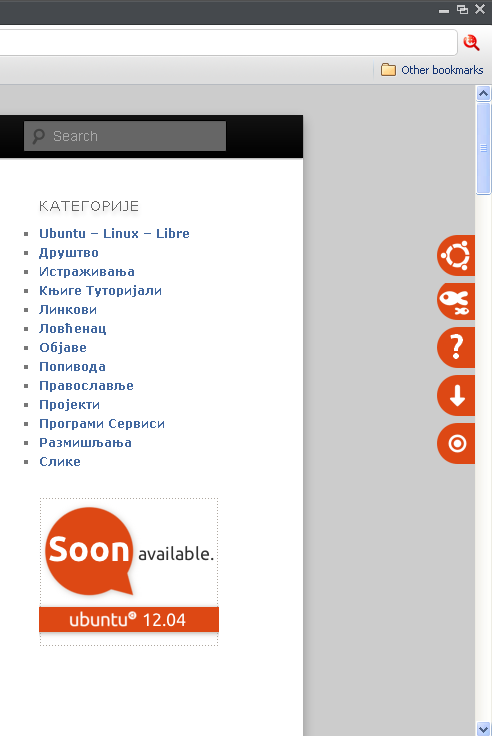
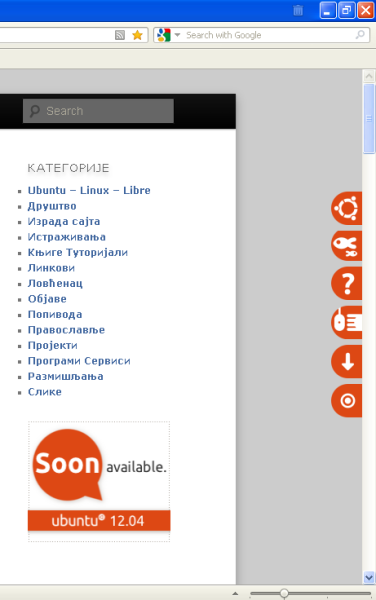
Commit version 0.4
git-svn-id: https://plugins.svn.wordpress.org/ubuntu-sidebar/trunk@538907 b8457f37-d9ea-0310-8a92-e5e31aec5664

diff --git a/js/ubuntu-sidebar.js b/js/ubuntu-sidebar.js
@@ -1,7 +1,7 @@
 /**
  * @author Zeljko Popivoda.
  *
- * Version 0.3
+ * Version 0.4
  * Copyright (c) 2012	 Zeljko Popivoda
  *
  * License:
@@ -18,23 +18,27 @@
       IMAGE_BASE = '/wp-content/plugins/ubuntu-sidebar/images/';
       var settings = {
 		'top'        : '100px',
-        'ubuntu-com'         : {
+        'ubuntu-com': {
 			'link': '',
 			'image': IMAGE_BASE + 'ubuntu-com.png'
 		},
-        'ubuntu-loco'         : {
+        'ubuntu-loco': {
 			'link': '',
 			'image': IMAGE_BASE + 'ubuntu-loco.png'
 		},
-        'why-ubuntu'         : {
+        'why-ubuntu': {
 			'link': '',
 			'image': IMAGE_BASE + 'why-ubuntu.png'
 		},
-		'download-ubuntu'         : {
+		'ubuntu-tour': {
+			'link': '',
+			'image': IMAGE_BASE + 'ubuntu-tour.png'
+		},
+		'download-ubuntu': {
 			'link': '',
 			'image': IMAGE_BASE + 'download-ubuntu.png'
 		},
-		'ubuntu-dvd'         : {
+		'ubuntu-dvd': {
 			'link': '',
 			'image': IMAGE_BASE + 'ubuntu-dvd.png'
 		},
@@ -56,6 +60,9 @@
 		if( settings['why-ubuntu']['link'] != ""){
 			sidebar.append("<div class='socialNetwork'><a target='_blank' title='Why use Ubuntu' href='" + settings['why-ubuntu']['link'] + "'><img style='z-index: 10000;' src='" + settings['why-ubuntu']['image'] + "' /></a></div>");
 		}		
+		if( settings['ubuntu-tour']['link'] != ""){
+			sidebar.append("<div class='socialNetwork'><a target='_blank' title='Ubuntu online tour' href='" + settings['ubuntu-tour']['link'] + "'><img style='z-index: 10000;' src='" + settings['ubuntu-tour']['image'] + "' /></a></div>");
+		}	
 		if( settings['download-ubuntu']['link'] != ""){
 			sidebar.append("<div class='socialNetwork'><a target='_blank' title='Download Ubuntu' href='" + settings['download-ubuntu']['link'] + "'><img style='z-index: 10000;' src='" + settings['download-ubuntu']['image'] + "' /></a></div>");
 		}		

diff --git a/ubuntu-sidebar.php b/ubuntu-sidebar.php
@@ -1,7 +1,7 @@
 <?php
 /**
  * @package ubuntu-sidebar
- * @version 0.3
+ * @version 0.4
  */
 /*
 Plugin Name: Ubuntu Sidebar
@@ -75,6 +75,12 @@ echo "
 					echo "'image': '". get_option("why-ubuntu_image"). "',";
 				}
                echo "'link': '". get_option("why-ubuntu_link"). "'
+            },
+			'ubuntu-tour': {";
+				if(  get_option("ubuntu-tour_image") ){
+					echo "'image': '". get_option("ubuntu-tour_image"). "',";
+				}
+               echo "'link': '". get_option("ubuntu-tour_link"). "'
             },
 			'download-ubuntu': {";
 				if(  get_option("download-ubuntu_image") ){
@@ -171,6 +177,14 @@ echo '<tr valign="top">
 <td><input style="width: 400px;" type="text" name="why-ubuntu_image" value="' . get_option('why-ubuntu_image') .'" /></td>
 </tr>'; 
 echo '<tr valign="top">
+<th scope="row">Ubuntu online tour <strong>Link</strong>:</th>
+<td><input style="width: 400px;" type="text" name="ubuntu-tour_link" value="' . get_option('ubuntu-tour_link') .'" /></td>
+</tr>'; 
+echo '<tr valign="top">
+<th scope="row">Ubuntu online tour Image (optional):</th>
+<td><input style="width: 400px;" type="text" name="ubuntu-tour_image" value="' . get_option('ubuntu-tour_image') .'" /></td>
+</tr>'; 
+echo '<tr valign="top">
 <th scope="row">Download Ubuntu <strong>Link</strong>:</th>
 <td><input style="width: 400px;" type="text" name="download-ubuntu_link" value="' . get_option('download-ubuntu_link') .'" /></td>
 </tr>'; 
@@ -204,7 +218,7 @@ echo '</table>';
   <?php
   
 echo '<input type="hidden" name="action" value="update" />';
-echo '<input type="hidden" name="page_options" value="ubuntu-com_link,ubuntu-com_image,ubuntu-loco_link,ubuntu-loco_image,why-ubuntu_link,why-ubuntu_image,download-ubuntu_link,download-ubuntu_image,ubuntu-dvd_link,ubuntu-dvd_image,social_offset,publica" />';
+echo '<input type="hidden" name="page_options" value="ubuntu-com_link,ubuntu-com_image,ubuntu-loco_link,ubuntu-loco_image,why-ubuntu_link,why-ubuntu_image,ubuntu-tour_link,ubuntu-tour_image,download-ubuntu_link,download-ubuntu_image,ubuntu-dvd_link,ubuntu-dvd_image,social_offset,publica" />';
   echo '</div>';
 echo '
 </form>
